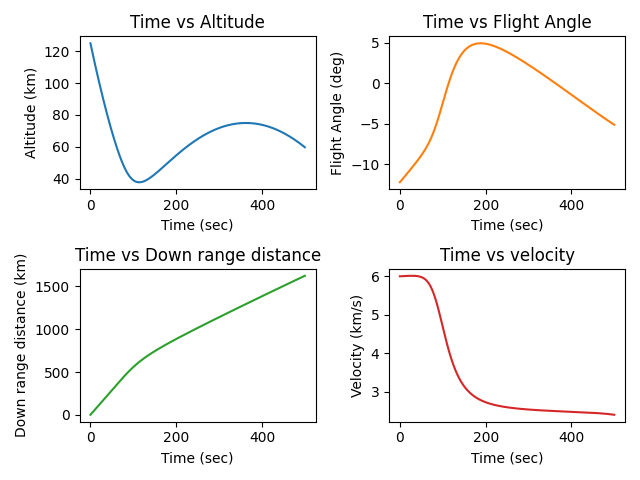
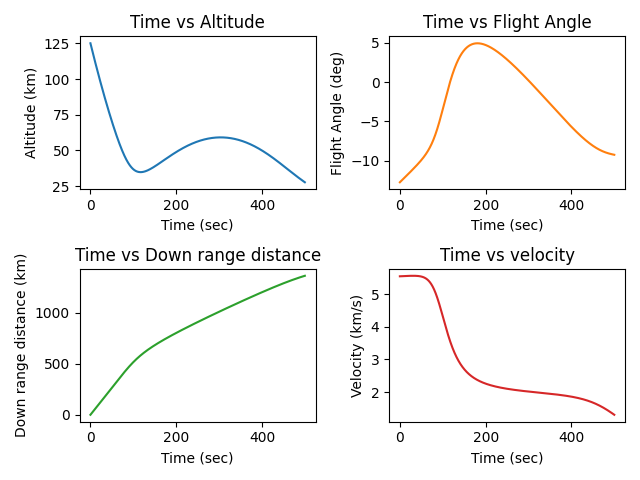
refactor trajectory optimizer: remove exit atmosphere criteria and adjust altitude constraint

diff --git a/trajectory_optimizer/optimizer.py b/trajectory_optimizer/optimizer.py
@@ -38,16 +38,6 @@ def f(t, y, cL):
     dy_dt = [dv_dt, dgamma_dt, dx_dt, dh_dt]
     return dy_dt
 
-# Include a stopping criteria when Vehicle exits atmosphere
-def exit_atmosphere(t, y):
-    h = y[3]
-    return h - 120000.0 
-
-# Do not terminate integration when crossing 120 km so trajectories run to `final_time`.
-# We still capture the event (solution.t_events) if desired, but allow full integration.
-exit_atmosphere.terminal = False
-exit_atmosphere.direction = -1.0
-
 # Stop if altitude goes unexpectedly high (safety event)
 def altitude_too_high(t, y):
     h = y[3]
@@ -73,7 +63,7 @@ def solve_trajectory_IVP(initial_conditions, LD):
                     max_step = 0.05,
                     rtol = rtol, atol = atol,
                     dense_output = True,
-                    events=[exit_atmosphere, altitude_too_high])
+                    events=[altitude_too_high])
     # Mark on the solution if the altitude_too_high event fired (events index 1)
     try:
         solution.altitude_too_high = len(solution.t_events[1]) > 0
@@ -110,10 +100,8 @@ def perform_post_processing(solution, cL):
     # wall temperature
     Tw = ((q_stag_total) * 10000 / (sb * e_w)) ** 0.25
 
-    # Calculate deceleration (Gs)
-    Lift = 0.5 * rho * (velocity[:-1] ** 2) * S * cL
-    Drag = 0.5 * rho * (velocity[:-1] ** 2) * S * cD
-    deceleration = (0.5 * rho * (velocity[:-1] ** 2) * np.sqrt(1 + (Lift / Drag) ** 2) * (S * cD / m_e)) / 9.81
+    # Calculate deceleration (Gs) - drag-induced only
+    deceleration = (0.5 * rho * (velocity[:-1] ** 2) * S * cD / m_e) / 9.81
 
     # Local surface locations and angles
     shell_angle = np.radians(70)
@@ -153,7 +141,7 @@ def perform_post_processing(solution, cL):
 
     global iteration_count
     iteration_count += 1
-    print(f"Iteration {iteration_count}")
+    print(f"Test {iteration_count}")
 
     results = {
         "time": time.tolist(),
@@ -225,7 +213,9 @@ def deceleration_constraint(opt_variables):
         return -1e6
     decel_results = perform_post_processing(solution, cL)["deceleration"]
     max_decel_actual = max(decel_results)
-    return max_decel - max_decel_actual # must be > 0
+    constraint_value = max_decel - max_decel_actual
+    print(f"  Decel constraint: max_decel_actual = {max_decel_actual:.3f} Gs, constraint margin = {constraint_value:.6f}")
+    return constraint_value # must be > 0
 
 def minimum_altitude_constraint(opt_variables):
     v_e, gamma_e, LD = opt_variables
@@ -235,7 +225,7 @@ def minimum_altitude_constraint(opt_variables):
         return -1e6
     altitude_results = perform_post_processing(solution, cL)["altitude"]
     min_altitude_actual = min(altitude_results)
-    return min_altitude_actual - 20000  # must be > 0 (minimum 20 km)
+    return min_altitude_actual - 30000  # must be > 0 (minimum 30 km)
 
 def flight_angle_constraint(opt_variables):
         """
@@ -293,6 +283,7 @@ def optimize(opt_variables):
         {'type': 'ineq', 'fun': minimum_altitude_constraint},
         {'type': 'ineq', 'fun': flight_angle_constraint},
         {'type': 'ineq', 'fun': trajectory_validity_constraint}]
+    
     result = minimize(objective_delta_v, opt_variables, bounds=bounds, constraints=constraints, options={'disp': True})
 
     return result

diff --git a/trajectory_optimizer/plot.py b/trajectory_optimizer/plot.py
@@ -154,7 +154,7 @@ def plot(LD_opt, v_opt, gamma_opt_rad_e,  x_e, h_e, solution=None, post_processi
     """Extract Key Parameters"""
 
     # Key trajectory parameters
-    print('   Key trajectory parameters:')
+    print('\n   Key trajectory parameters:')
     print(f'Minimum altitude = {min(altitude_results)/1000:.2f} km')
     index_of_min_alt = np.argmin(altitude_results)
     print(f'Time of minimum altitude = {time_results[index_of_min_alt]:.2f} s')
